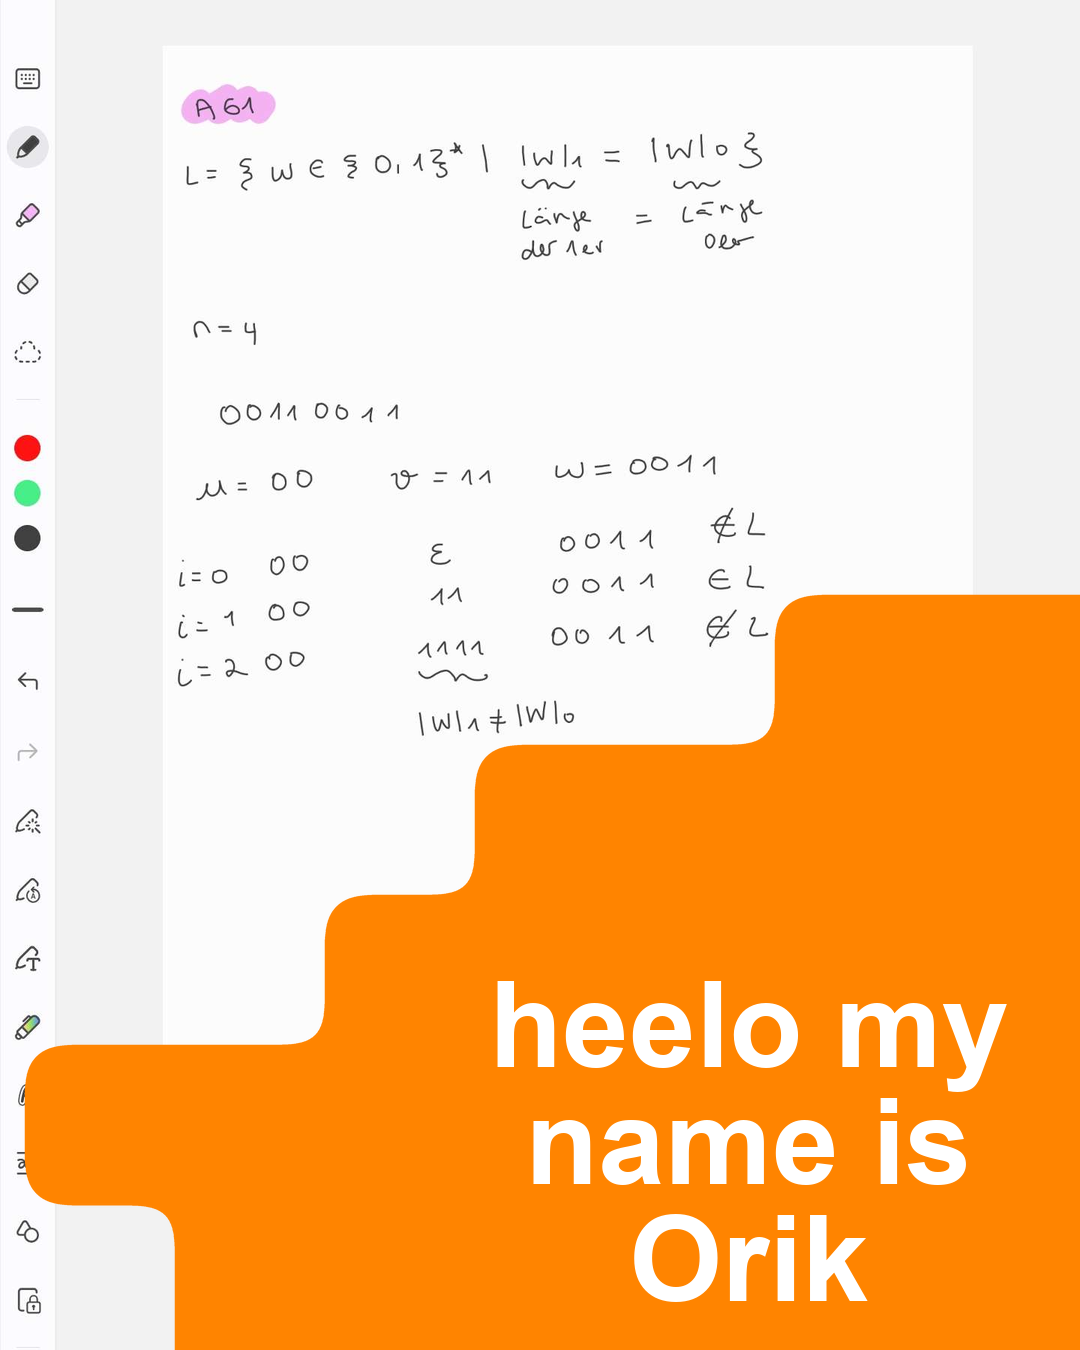
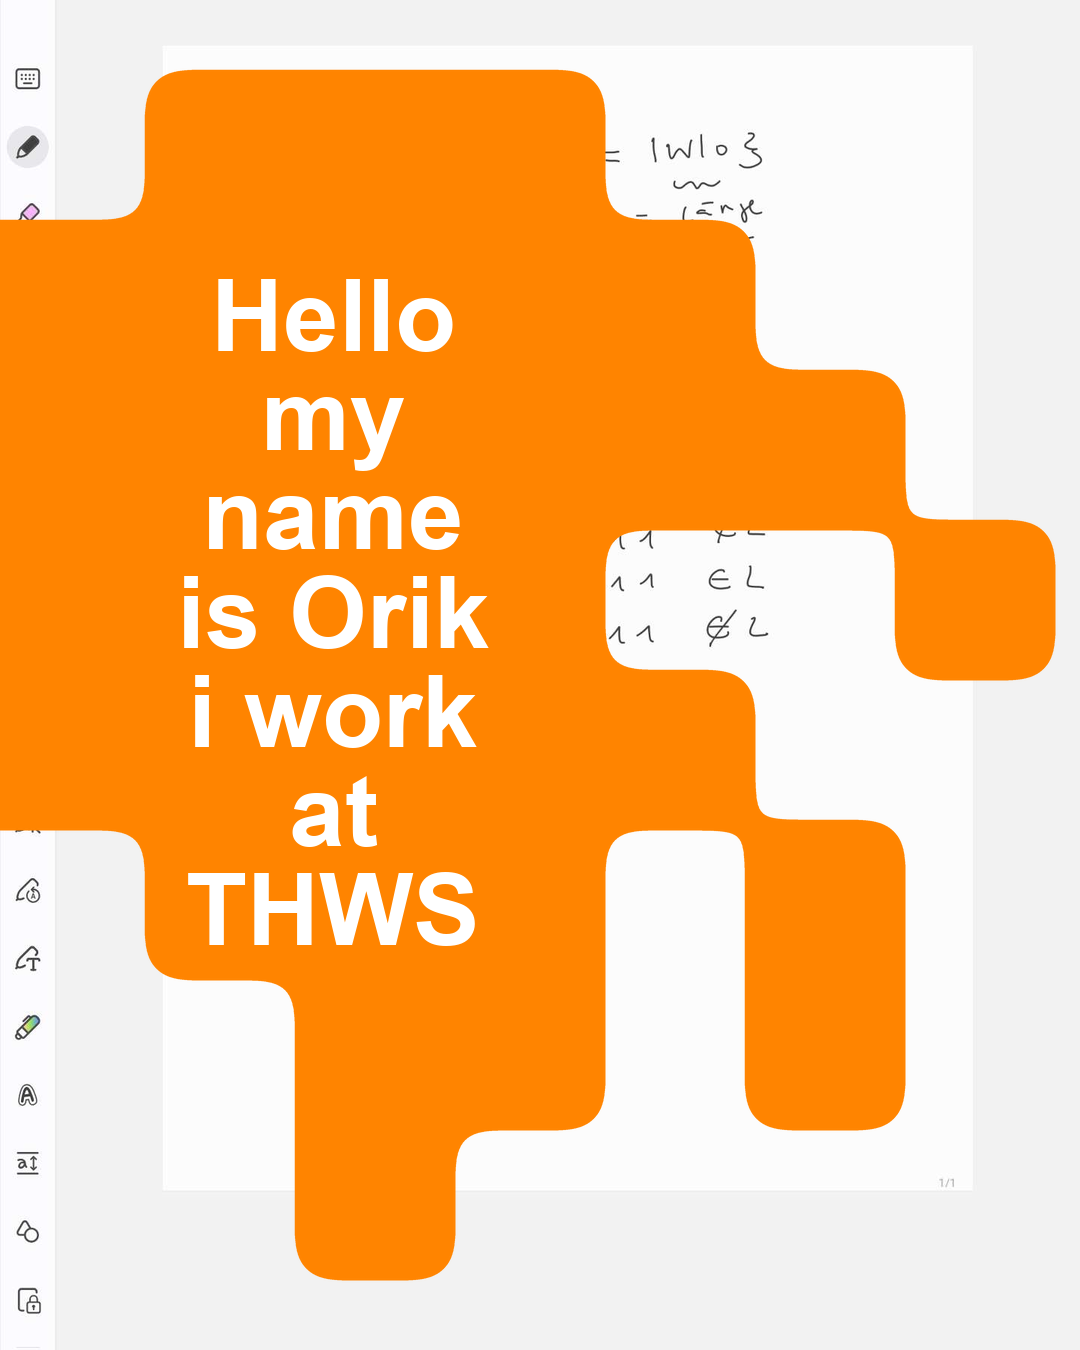
Referencing Issue #50 ; Utilized the previously implemented left and right positions into the overlay pipeline and centering of the text when using these parameters for position

diff --git a/src/post_generator/services/overlay_service.py b/src/post_generator/services/overlay_service.py
@@ -85,46 +85,51 @@ ALLOWED_REMOVE = [(5, 1), (4, 3), (2, 5)]
 # ---------------------------------------------------------------------------
 
 BASE_TEMPLATES_SIDE = [
-    # Variant 1 — trail reaches far right with one isolated dot
+    # Variant 1 — solid left wall, fingerprint trail on the right with isolated dots
+    #   9 rows tall = 9 × 150 = 1350 px = full image height, no vertical gap.
+    #   Columns 0-3: solid block (text area). Columns 4-6: fingerprint trail.
     [
-        "0011000",
-        "0111100",
+        "1111100",
         "1111110",
         "1111101",
         "1111110",
         "1111100",
-        "0111000",
-        "0010000",
+        "1111110",
+        "1111101",
+        "1111100",
+        "1111000",
     ],
-    # Variant 2 — wider top, two separated fingerprint dots
+    # Variant 2 — slightly different trail pattern, two far-right dots
     [
-        "0111000",
+        "1111110",
         "1111100",
         "1111110",
         "1111001",
         "1111100",
-        "0111010",
-        "0011000",
-        "0010000",
+        "1111110",
+        "1111010",
+        "1111100",
+        "1111000",
     ],
-    # Variant 3 — denser trail, more organic silhouette
+    # Variant 3 — denser trail, more organic right edge
     [
-        "0011000",
         "1111100",
         "1111110",
         "1111011",
         "1111110",
-        "0111100",
-        "0011000",
-        "0010000",
+        "1111100",
+        "1111110",
+        "1111100",
+        "1111110",
+        "1111000",
     ],
 ]
 
 # Cells where random variation is allowed on side templates.
 # Only targets the fingerprint trail region (columns 4-6) so the solid
 # text block on the left stays intact.
-ALLOWED_ADD_SIDE = [(5, 1), (6, 4), (5, 6)]
-ALLOWED_REMOVE_SIDE = [(6, 3), (5, 5), (6, 5)]
+ALLOWED_ADD_SIDE = [(5, 0), (6, 2), (5, 4), (6, 6)]
+ALLOWED_REMOVE_SIDE = [(6, 1), (5, 3), (6, 5), (5, 7)]
 
 
 def template_to_grid(template: Template) -> Grid:
@@ -141,7 +146,23 @@ def _is_inside_grid(grid: Grid, x: int, y: int) -> bool:
     return 0 <= y < len(grid) and 0 <= x < len(grid[y])
 
 
-def mutate_template(template: Template, rng: Optional[random.Random] = None, max_changes: int = 1) -> List[str]:
+def _templates_for(position: Optional[str]):
+    """Return the (templates, add_rules, remove_rules) triple for a position.
+
+    Side positions ("left"/"right") use the wider side templates and their
+    own allowed-mutation rules; everything else falls back to the corner set.
+    """
+    if position in ("left", "right"):
+        return BASE_TEMPLATES_SIDE, ALLOWED_ADD_SIDE, ALLOWED_REMOVE_SIDE
+    return BASE_TEMPLATES, ALLOWED_ADD, ALLOWED_REMOVE
+
+
+def mutate_template(
+    template: Template,
+    rng: Optional[random.Random] = None,
+    max_changes: int = 1,
+    position: Optional[str] = None,
+) -> List[str]:
     """Apply small allowed add/remove mutations to one base template.
 
     A mutation is only valid when it keeps the existing shape style:
@@ -152,14 +173,15 @@ def mutate_template(template: Template, rng: Optional[random.Random] = None, max
     the stair shape look unrelated to the base template.
     """
     rng = rng or random.Random()
+    _, allowed_add, allowed_remove = _templates_for(position)
     grid = template_to_grid(template)
     possible_changes = []
 
-    for x, y in ALLOWED_ADD:
+    for x, y in allowed_add:
         if _is_inside_grid(grid, x, y) and grid[y][x] == "0":
             possible_changes.append((x, y, "1"))
 
-    for x, y in ALLOWED_REMOVE:
+    for x, y in allowed_remove:
         if _is_inside_grid(grid, x, y) and grid[y][x] == "1":
             possible_changes.append((x, y, "0"))
 
@@ -171,11 +193,21 @@ def mutate_template(template: Template, rng: Optional[random.Random] = None, max
     return grid_to_template(grid)
 
 
-def random_stair_template(rng: Optional[random.Random] = None, max_changes: int = 1) -> List[str]:
-    """Pick a base template and return a small random variation of it."""
+def random_stair_template(
+    rng: Optional[random.Random] = None,
+    max_changes: int = 1,
+    position: Optional[str] = None,
+) -> List[str]:
+    """Pick a base template and return a small random variation of it.
+
+    When position is "left" or "right", the wider side template set is used
+    instead of the corner set. Existing callers that omit position keep the
+    original corner behavior.
+    """
     rng = rng or random.Random()
-    base_template = rng.choice(BASE_TEMPLATES)
-    return mutate_template(base_template, rng, max_changes)
+    templates, _, _ = _templates_for(position)
+    base_template = rng.choice(templates)
+    return mutate_template(base_template, rng, max_changes, position)
 
 
 def grid_to_cells(grid: Grid) -> List[Cell]:
@@ -196,7 +228,7 @@ def build_overlay_layout(position: str, rng: Optional[random.Random] = None, max
     bottom-right.
     """
     rng = rng or random.Random()
-    template = random_stair_template(rng, max_changes)
+    template = random_stair_template(rng, max_changes, position)
     grid = template_to_grid(template)
 
     template_height = len(grid)

diff --git a/src/post_generator/services/transform.py b/src/post_generator/services/transform.py
@@ -52,9 +52,9 @@ def anchor_offset(template_w, template_h, cell, position):
     if position == "bottom-left":
         return 0, INSTAGRAM_HEIGHT - shape_h
     if position == "left":
-        return 0, (INSTAGRAM_HEIGHT - shape_h) // 2
+        return 0, 0
     if position == "right":
-        return INSTAGRAM_WIDTH - shape_w, (INSTAGRAM_HEIGHT - shape_h) // 2
+        return INSTAGRAM_WIDTH - shape_w, 0
     return INSTAGRAM_WIDTH - shape_w, INSTAGRAM_HEIGHT - shape_h
 
 # function that has been replaced by get_overlay_bounds
@@ -91,26 +91,43 @@ def get_visual_center(cells, cell_size, offset, position=None):
     based on its grid cells. Optionally applies a shift towards the corner.
     """
     ox, oy = offset
-    
+
     if not cells:
         return ox, oy
-        
+
+    # Side positions: keep the text inside the solid block, not over the
+    # fingerprint trail. The solid block occupies columns 0..3 of the side
+    # template; for "right" the cells have been horizontally mirrored, so the
+    # solid block sits at the opposite end (columns 3..6 with width=7).
+    if position in ("left", "right"):
+        max_x = max(x for x, _ in cells)
+        if position == "left":
+            block_cells = [(x, y) for x, y in cells if x <= 3]
+        else:
+            block_cells = [(x, y) for x, y in cells if x >= max_x - 3]
+
+        avg_cell_x = sum(x for x, _ in block_cells) / len(block_cells)
+        avg_cell_y = sum(y for _, y in block_cells) / len(block_cells)
+        center_x = ox + (avg_cell_x + 0.5) * cell_size
+        center_y = oy + (avg_cell_y + 0.5) * cell_size
+        return center_x, center_y
+
     avg_cell_x = sum(x for x, y in cells) / len(cells)
     avg_cell_y = sum(y for x, y in cells) / len(cells)
-    
+
     center_x = ox + (avg_cell_x + 0.5) * cell_size
     center_y = oy + (avg_cell_y + 0.5) * cell_size
-    
+
     if position:
         shift_amount = cell_size * 0.5
         if "left" in position:
             center_x -= shift_amount
         elif "right" in position:
             center_x += shift_amount
-            
+
         if "top" in position:
             center_y -= shift_amount
         elif "bottom" in position:
             center_y += shift_amount
-            
+
     return center_x, center_y
